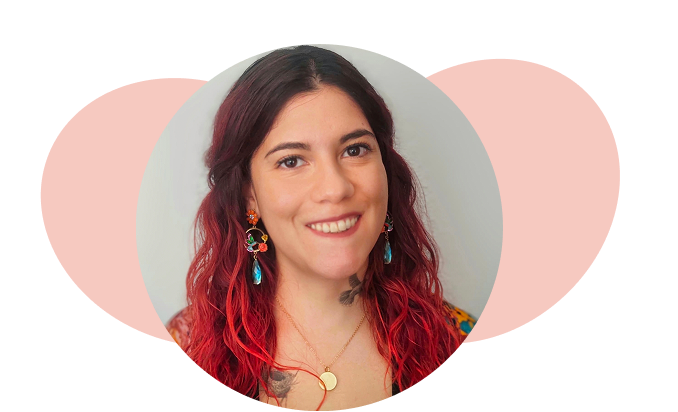
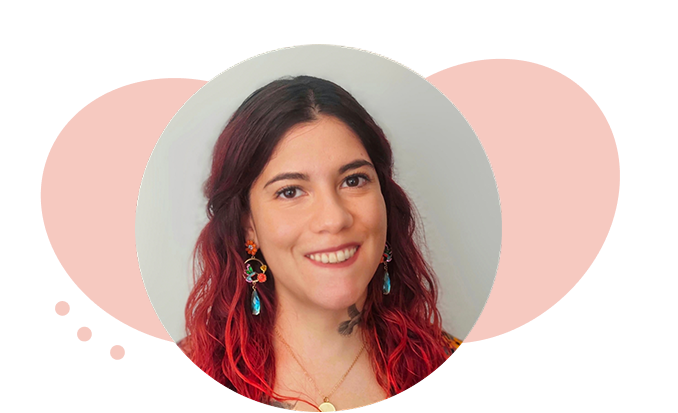
cambio vista agenda

diff --git a/app/agenda/page.tsx b/app/agenda/page.tsx
@@ -1,16 +1,11 @@
 "use client";
-import AgendaCards from "@/components/AgendaCards";
-import aboutUs from "@/data/aboutUs.json";
 import Image from "next/image";
 import { poppins } from "@/app/fonts/fonts";
 import Help from "@/components/Help";
 import { Modal } from "flowbite-react";
 import { useState } from "react";
-
+import { IoCalendarOutline } from "react-icons/io5";
 function AgendaPage() {
-  const lauraServices = aboutUs[0].services;
-  const danielaServices = aboutUs[1].services;
-  const julianaServices = aboutUs[2].services;
   const [openModal, setOpenModal] = useState(false);
   const [calendarLink, setCalendarLink] = useState("");
   return (
@@ -20,35 +15,43 @@ function AgendaPage() {
       >
         AGENDA LOICA
       </h3>
-      <div className=" max-w-screen-lg mx-auto flex flex-wrap ">
-        <div className=" mx-auto max-w-[290px] ">
-          <div className="flex flex-col  items-center gap-2  mx-auto mt-16 border-2 border-lavender rounded-md">
+      <div className="max-w-screen-xl mx-auto grid grid-cols-1 sm:grid-cols-2 lg:grid-cols-3 xl:grid-cols-4 gap-2 px-2">
+        <div className="w-full">
+          <div className="flex flex-row sm:flex-col items-center gap-2 bg-neutral-50 shadow-xl border border-slate-300  mx-auto mt-4 rounded-md md:text-center">
             <Image
               src="/profiles/profilephotoagenda.png"
               alt="Psicóloga Laura Valdés Cruzatt"
-              width={184.64}
-              height={112}
+              width={184}
+              height={184}
               quality={100}
-              className="mt-4"
+              className="my-2 w-[120px] md:w-[184px] h-auto"
             />
-            <h2 className="text-xl mt-2 ">Laura Valdés Cruzatt</h2>
-            <h3 className={`${poppins.className} text-xs `}>
-              Psicóloga adolescentes y adultos
-            </h3>
-            <button
-              onClick={() => {
-                setCalendarLink(
-                  "https://calendar.google.com/calendar/u/0/appointments/schedules/AcZssZ2PnxVtN4l82IqeOn-zCIoWDfybh4cVFOsli1wU4wwjRNYSXqfBaQ9xl8DxoFVcf_XUx1BK5vF-?gv=true",
-                );
-                setOpenModal(true);
-              }}
-              className={`${poppins.className} bg-lavender font-normal shadow-lg text-sm text-center  md:min-w-28 text-md p-2 my-8 text-white transform transition-transform duration-300 hover:scale-105  rounded-md`}
-            >
-              Agendar hora
-            </button>
+            <div>
+              <h2 className="text-xl mt-2 text-violet-700 font-bold ">
+                Laura Valdés Cruzatt
+              </h2>
+              <h3 className={`${poppins.className} text-xs md:mt-2 `}>
+                Psicóloga adolescentes y adultos
+              </h3>
+              <button
+                onClick={() => {
+                  setCalendarLink(
+                    "https://calendar.google.com/calendar/u/0/appointments/AcZssZ0mBBGXL7PzKVCAW8jf8GBnWf_AwksuuOpqZ3c=",
+                  );
+                  setOpenModal(true);
+                }}
+                className={`${poppins.className} flex gap-2 items-center bg-[#7B79DA] font-normal shadow-lg text-xs md:text-sm py-2.5 px-4 sm:px-6 my-4 sm:mt-6 md:mx-auto text-white transform transition-transform duration-300 hover:scale-105 rounded-md`}
+              >
+                <IoCalendarOutline className="text-xl" /> Agendar hora
+              </button>
+              <h3
+                className={`${poppins.className} hidden md:block text-xs mt-2 mb-6 `}
+              >
+                Atención presencial y online
+              </h3>
+            </div>
           </div>
 
-          <AgendaCards services={lauraServices} />
           <div className=" absolute top-[50px] -left-[250px] opacity-10 -z-10">
             <Image
               src="/layout/bg-img-2.png"
@@ -59,85 +62,125 @@ function AgendaPage() {
             />
           </div>
         </div>
-        <div className=" mx-auto max-w-[290px] ">
-          <div className="flex flex-col  items-center gap-2  mx-auto mt-16 border-2 border-lavender rounded-md">
+        <div className="w-full">
+          <div className="flex flex-row sm:flex-col items-center gap-2 bg-neutral-50 shadow-xl border border-slate-300  mx-auto mt-4 rounded-md md:text-center">
             <Image
               src="/profiles/profilephotoagenda2.png"
-              alt="Daniela Belén Bustos Páez"
+              alt="Psicóloga Daniela Belén Bustos Páez"
               width={184.64}
               height={112}
               quality={100}
-              className="mt-4"
+              className="my-2 w-[120px] md:w-[184px] h-auto"
             />
-            <h2 className="text-xl mt-2 ">Daniela Belén Bustos Páez</h2>
-            <h3 className={`${poppins.className} text-xs `}>
-              Psicóloga y Sexóloga adultos
-            </h3>
-            <button
-              onClick={() => {
-                setCalendarLink(
-                  "https://calendar.google.com/calendar/u/0/appointments/schedules/AcZssZ0OI_N7qua613H0wZcnbg9ybTaGVcOc1UVY-_csvy02kh18OCAr5l6UHPr3iUx5zDhCKpxdaza3?gv=true",
-                );
-                setOpenModal(true);
-              }}
-              className={`${poppins.className} bg-lavender font-normal shadow-lg text-sm text-center  md:min-w-28 text-md p-2 my-8 text-white transform transition-transform duration-300 hover:scale-105  rounded-md`}
-            >
-              Agendar hora
-            </button>
-          </div>
-          <AgendaCards services={danielaServices} />
-          <div className=" absolute top-[50px] -left-[250px] opacity-10 -z-10">
-            <Image
-              src="/layout/bg-img-2.png"
-              alt=""
-              width={600}
-              height={630}
-              quality={100}
-            />
+            <div>
+              <h2 className="text-xl mt-2 text-violet-700 font-bold ">
+                Daniela Belén Bustos Páez
+              </h2>
+              <h3 className={`${poppins.className} text-xs md:mt-2 `}>
+                Psicóloga y Sexóloga adultos
+              </h3>
+              <button
+                onClick={() => {
+                  setCalendarLink(
+                    "https://calendar.google.com/calendar/u/0/appointments/AcZssZ3BuRwOxP_SOCj5Vdm2xmSGtGaIgqGnNJkSU_A=",
+                  );
+                  setOpenModal(true);
+                }}
+                className={`${poppins.className} flex gap-2 items-center bg-[#7B79DA] font-normal shadow-lg text-xs md:text-sm py-2.5 px-4 sm:px-6 my-4 sm:mt-6 md:mx-auto text-white transform transition-transform duration-300 hover:scale-105 rounded-md`}
+              >
+                <IoCalendarOutline className="text-xl" /> Agendar hora
+              </button>
+              <h3
+                className={`${poppins.className} hidden md:block text-xs mt-2 mb-6 `}
+              >
+                Atención online
+              </h3>
+            </div>
           </div>
         </div>
-        <div className=" mx-auto max-w-[290px] ">
-          <div className="flex flex-col  items-center gap-2  mx-auto mt-16 border-2 border-lavender rounded-md">
+        <div className="w-full">
+          <div className="flex flex-row sm:flex-col items-center gap-2 bg-neutral-50 shadow-xl border border-slate-300  mx-auto mt-4 rounded-md md:text-center">
             <Image
               src="/profiles/profilephotoagenda3.png"
-              alt="Juliana Quevedo Cruz"
+              alt="Psicóloga Juliana Quevedo Cruz"
               width={184.64}
               height={112}
               quality={100}
-              className="mt-4"
+              className="my-2 w-[120px] md:w-[184px] h-auto"
             />
-            <h2 className="text-xl mt-2 ">Juliana Quevedo Cruz</h2>
-            <h3 className={`${poppins.className} text-xs `}>
-              Psicóloga y sexóloga adultas y parejas
-            </h3>
-            <button
-              onClick={() => {
-                setCalendarLink(
-                  "https://calendar.google.com/calendar/u/0/appointments/schedules/AcZssZ1s-RjzM5LkpKYDJ_e-NRrNO7RM_IiyT-QnfW3K2cvO2vQBtOeQA4X6YobqcaNwVpV7NUhKIFME?gv=true",
-                );
-                setOpenModal(true);
-              }}
-              className={`${poppins.className} bg-lavender font-normal shadow-lg text-sm text-center  md:min-w-28 text-md p-2 my-8 text-white transform transition-transform duration-300 hover:scale-105  rounded-md`}
-            >
-              Agendar hora
-            </button>
+            <div>
+              <h2 className="text-xl mt-2 text-violet-700 font-bold ">
+                Juliana Quevedo Cruz
+              </h2>
+              <h3 className={`${poppins.className} text-xs md:mt-2 `}>
+                Psicóloga y sexóloga adultas y parejas
+              </h3>
+              <button
+                onClick={() => {
+                  setCalendarLink(
+                    "https://calendar.google.com/calendar/u/0/appointments/AcZssZ0P6ZikbsNyP25KyaHUAD8LuuHXjH9Dct4ow2U=",
+                  );
+                  setOpenModal(true);
+                }}
+                className={`${poppins.className} flex gap-2 items-center bg-[#7B79DA] font-normal shadow-lg text-xs md:text-sm py-2.5 px-4 sm:px-6 my-4 sm:mt-6 md:mx-auto text-white transform transition-transform duration-300 hover:scale-105 rounded-md`}
+              >
+                <IoCalendarOutline className="text-xl" /> Agendar hora
+              </button>
+              <h3
+                className={`${poppins.className} hidden md:block text-xs mt-2 mb-6 `}
+              >
+                Atención online
+              </h3>
+            </div>
           </div>
-
-          <AgendaCards services={julianaServices} />
-          <div className=" absolute top-[50px] -left-[250px] opacity-10 -z-10">
+        </div>
+        <div className="w-full">
+          <div className="flex flex-row sm:flex-col items-center gap-2 bg-neutral-50 shadow-xl border border-slate-300  mx-auto mt-4 rounded-md md:text-center">
             <Image
-              src="/layout/bg-img-2.png"
-              alt=""
-              width={600}
-              height={630}
+              src="/profiles/profilephotoagenda4.png"
+              alt="Psicóloga Constanza Fernández"
+              width={184.64}
+              height={112}
               quality={100}
+              className="my-2 w-[120px] md:w-[184px] h-auto"
             />
+            <div>
+              <h2 className="text-xl mt-2 text-violet-700 font-bold ">
+                Constanza Fernández
+              </h2>
+              <h3 className={`${poppins.className} text-xs md:mt-2 `}>
+                Psicóloga adultos y adultos mayores
+              </h3>
+              <button
+                onClick={() => {
+                  setCalendarLink(
+                    "https://calendar.google.com/calendar/u/0/appointments/AcZssZ2nhwN0CCh--TW563GcnaQq1KpIGPbq7ySSz5s=",
+                  );
+                  setOpenModal(true);
+                }}
+                className={`${poppins.className} flex gap-2 items-center bg-[#7B79DA] font-normal shadow-lg text-xs md:text-sm py-2.5 px-4 sm:px-6 my-4 sm:mt-6 md:mx-auto text-white transform transition-transform duration-300 hover:scale-105 rounded-md`}
+              >
+                <IoCalendarOutline className="text-xl" /> Agendar hora
+              </button>
+              <h3
+                className={`${poppins.className} hidden md:block text-xs mt-2 mb-6 `}
+              >
+                Atención online
+              </h3>
+            </div>
           </div>
         </div>
       </div>
       <Help></Help>
       <Modal show={openModal} onClose={() => setOpenModal(false)} size="4xl">
-        <Modal.Header><Image src="/layout/navbar-logo-loica.png" alt="Juliana Quevedo Cruz" width={100} height={100} /></Modal.Header>
+        <Modal.Header>
+          <Image
+            src="/layout/navbar-logo-loica.png"
+            alt="Juliana Quevedo Cruz"
+            width={100}
+            height={100}
+          />
+        </Modal.Header>
 
         <Modal.Body>
           <iframe